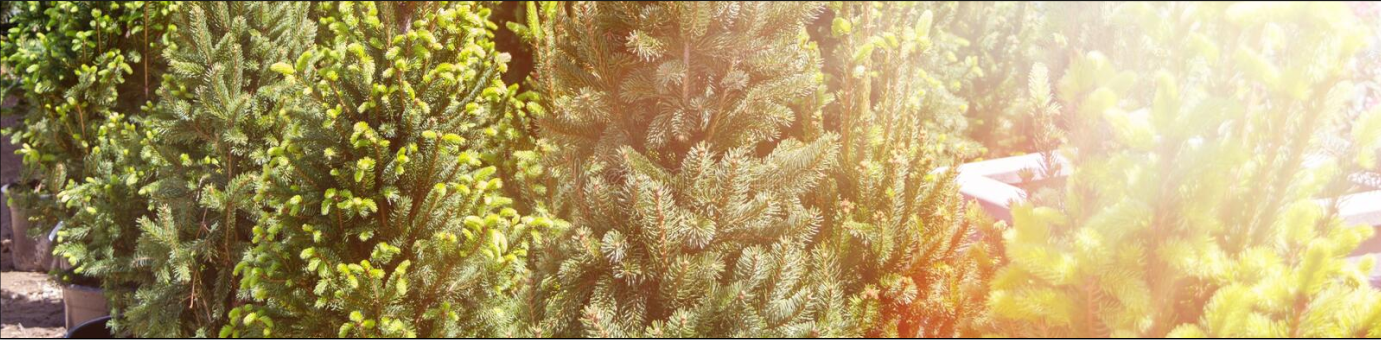
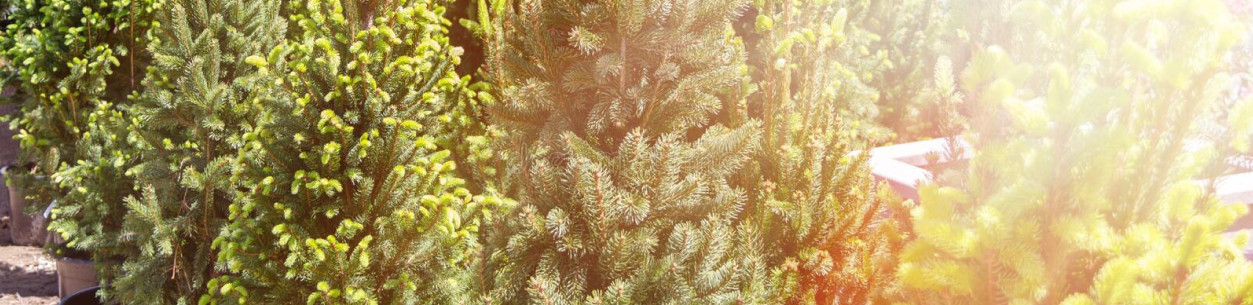
plant list component development

diff --git a/src/app/plant/plant-list/plant-list.component.ts b/src/app/plant/plant-list/plant-list.component.ts
@@ -9,16 +9,28 @@ import { Plant } from '../plant';
 })
 export class PlantListComponent implements OnInit {
   plants: Array<Plant> = [];
+  plantsInformation: Map<string, number> = new Map<string, number>();
 
   constructor(private plantService: PlantService) { }
 
   getPlants(): void {
     this.plantService.getPlants().subscribe(plants => {
       this.plants = plants;
+      this.setplantsInformation(plants);
     });
   }
 
   ngOnInit() {
     this.getPlants();
+  }
+
+  setplantsInformation(plants: Plant[]) {
+    plants.forEach(plant => {
+      let plantType = plant.tipo.toLowerCase();
+      if (!this.plantsInformation.has(plantType)) {
+        this.plantsInformation.set(plantType, 0);
+      }
+      this.plantsInformation.set(plantType, this.plantsInformation.get(plantType)! + 1);
+    });
   }
 }

diff --git a/src/app/plant/plant-list/plant-list.component.html b/src/app/plant/plant-list/plant-list.component.html
@@ -1,3 +1,24 @@
-<p>
-  plant-list works!
-</p>
+<div class="col-md-8 col-sm-12">
+  <table class="table table-hover">
+    <thead class="table-dark">
+      <tr>
+        <th scope="col">#</th>
+        <th scope="col">Nombre común</th>
+        <th scope="col">Tipo</th>
+        <th scope="col">Clima</th>
+      </tr>
+    </thead>
+    <tbody>
+      <tr *ngFor="let plant of plants">
+        <td class="id" style="font-weight: bold;">{{plant.id}}</td>
+        <td>{{ plant.nombre_comun }}</td>
+        <td>{{ plant.tipo }}</td>
+        <td>{{ plant.clima }}</td>
+      </tr>
+    </tbody>
+  </table>
+  <div>
+    <div *ngFor="let keyValue of plantsInformation | keyvalue">
+      Total plantas de {{ keyValue.key }}: {{ keyValue.value }}
+    </div>
+</div>

diff --git a/src/app/app.component.css b/src/app/app.component.css
@@ -1,0 +1,27 @@
+.container {
+    width: 100%;
+    max-width: 100%;
+    overflow: hidden;
+    padding: 2%;   
+}
+
+.container img {
+    width: 100%;
+    height: auto;
+    display: block;
+}
+
+.font-style {
+    font-family: "Times New Roman", serif;
+    text-shadow: 0px 3px 5px rgba(0, 0, 0, 0.5);
+    font-weight: bold;
+}
+
+.hr-style {
+    box-shadow: 0px 2px 2px rgba(0, 0, 0, 1);
+}
+
+.img-style {
+    box-shadow: 0px 3px 3px rgba(0, 0, 0, 0.3);
+    border: 1.5px solid #000;
+}

diff --git a/src/app/plant/plant-list/plant-list.component.spec.ts b/src/app/plant/plant-list/plant-list.component.spec.ts
@@ -2,8 +2,8 @@
 import { async, ComponentFixture, TestBed } from '@angular/core/testing';
 import { By } from '@angular/platform-browser';
 import { DebugElement } from '@angular/core';
-
 import { PlantListComponent } from './plant-list.component';
+
 
 describe('PlantListComponent', () => {
   let component: PlantListComponent;

diff --git a/src/app/app.component.html b/src/app/app.component.html
@@ -1,1 +1,7 @@
-<app-plant-list></app-plant-list>
+<div class="container">
+    <h1 class="font-style">Vivero El Otoño</h1>
+    <hr class="hr-style"/>
+    <img class="img-style" src="../assets/banner.png" alt="Vivero de plantas">
+    <hr />
+    <app-plant-list></app-plant-list>
+</div>
